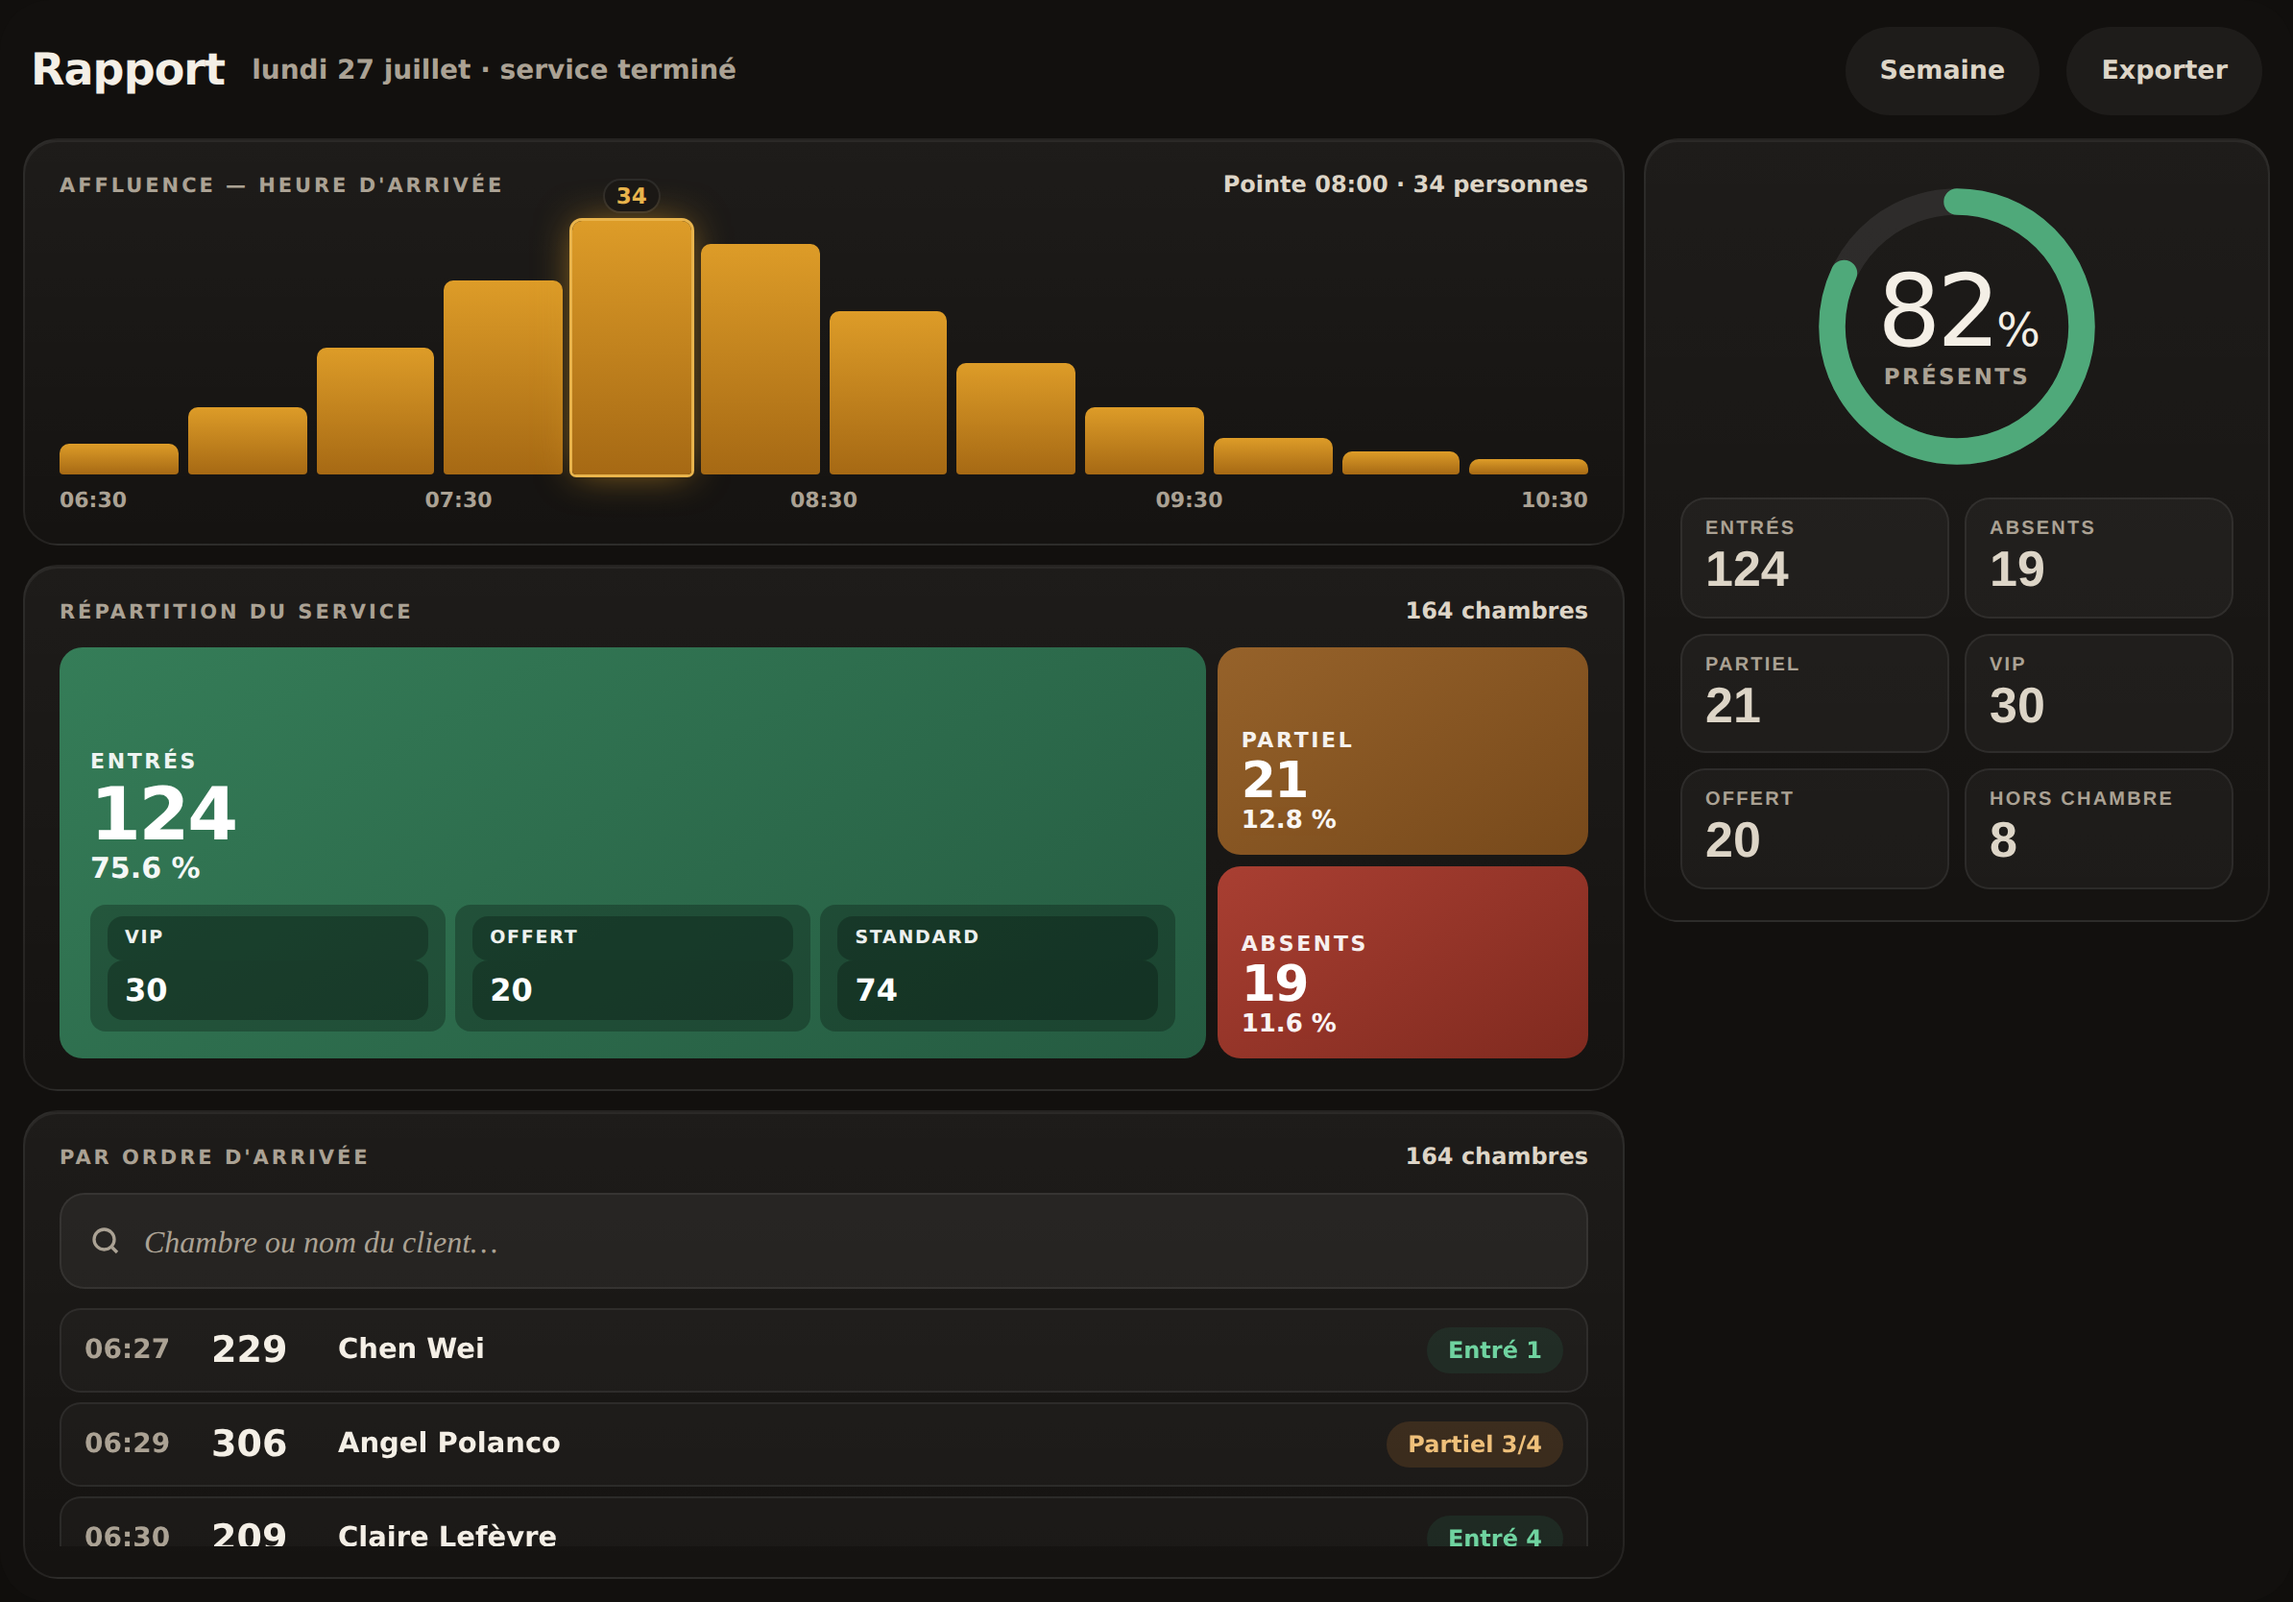
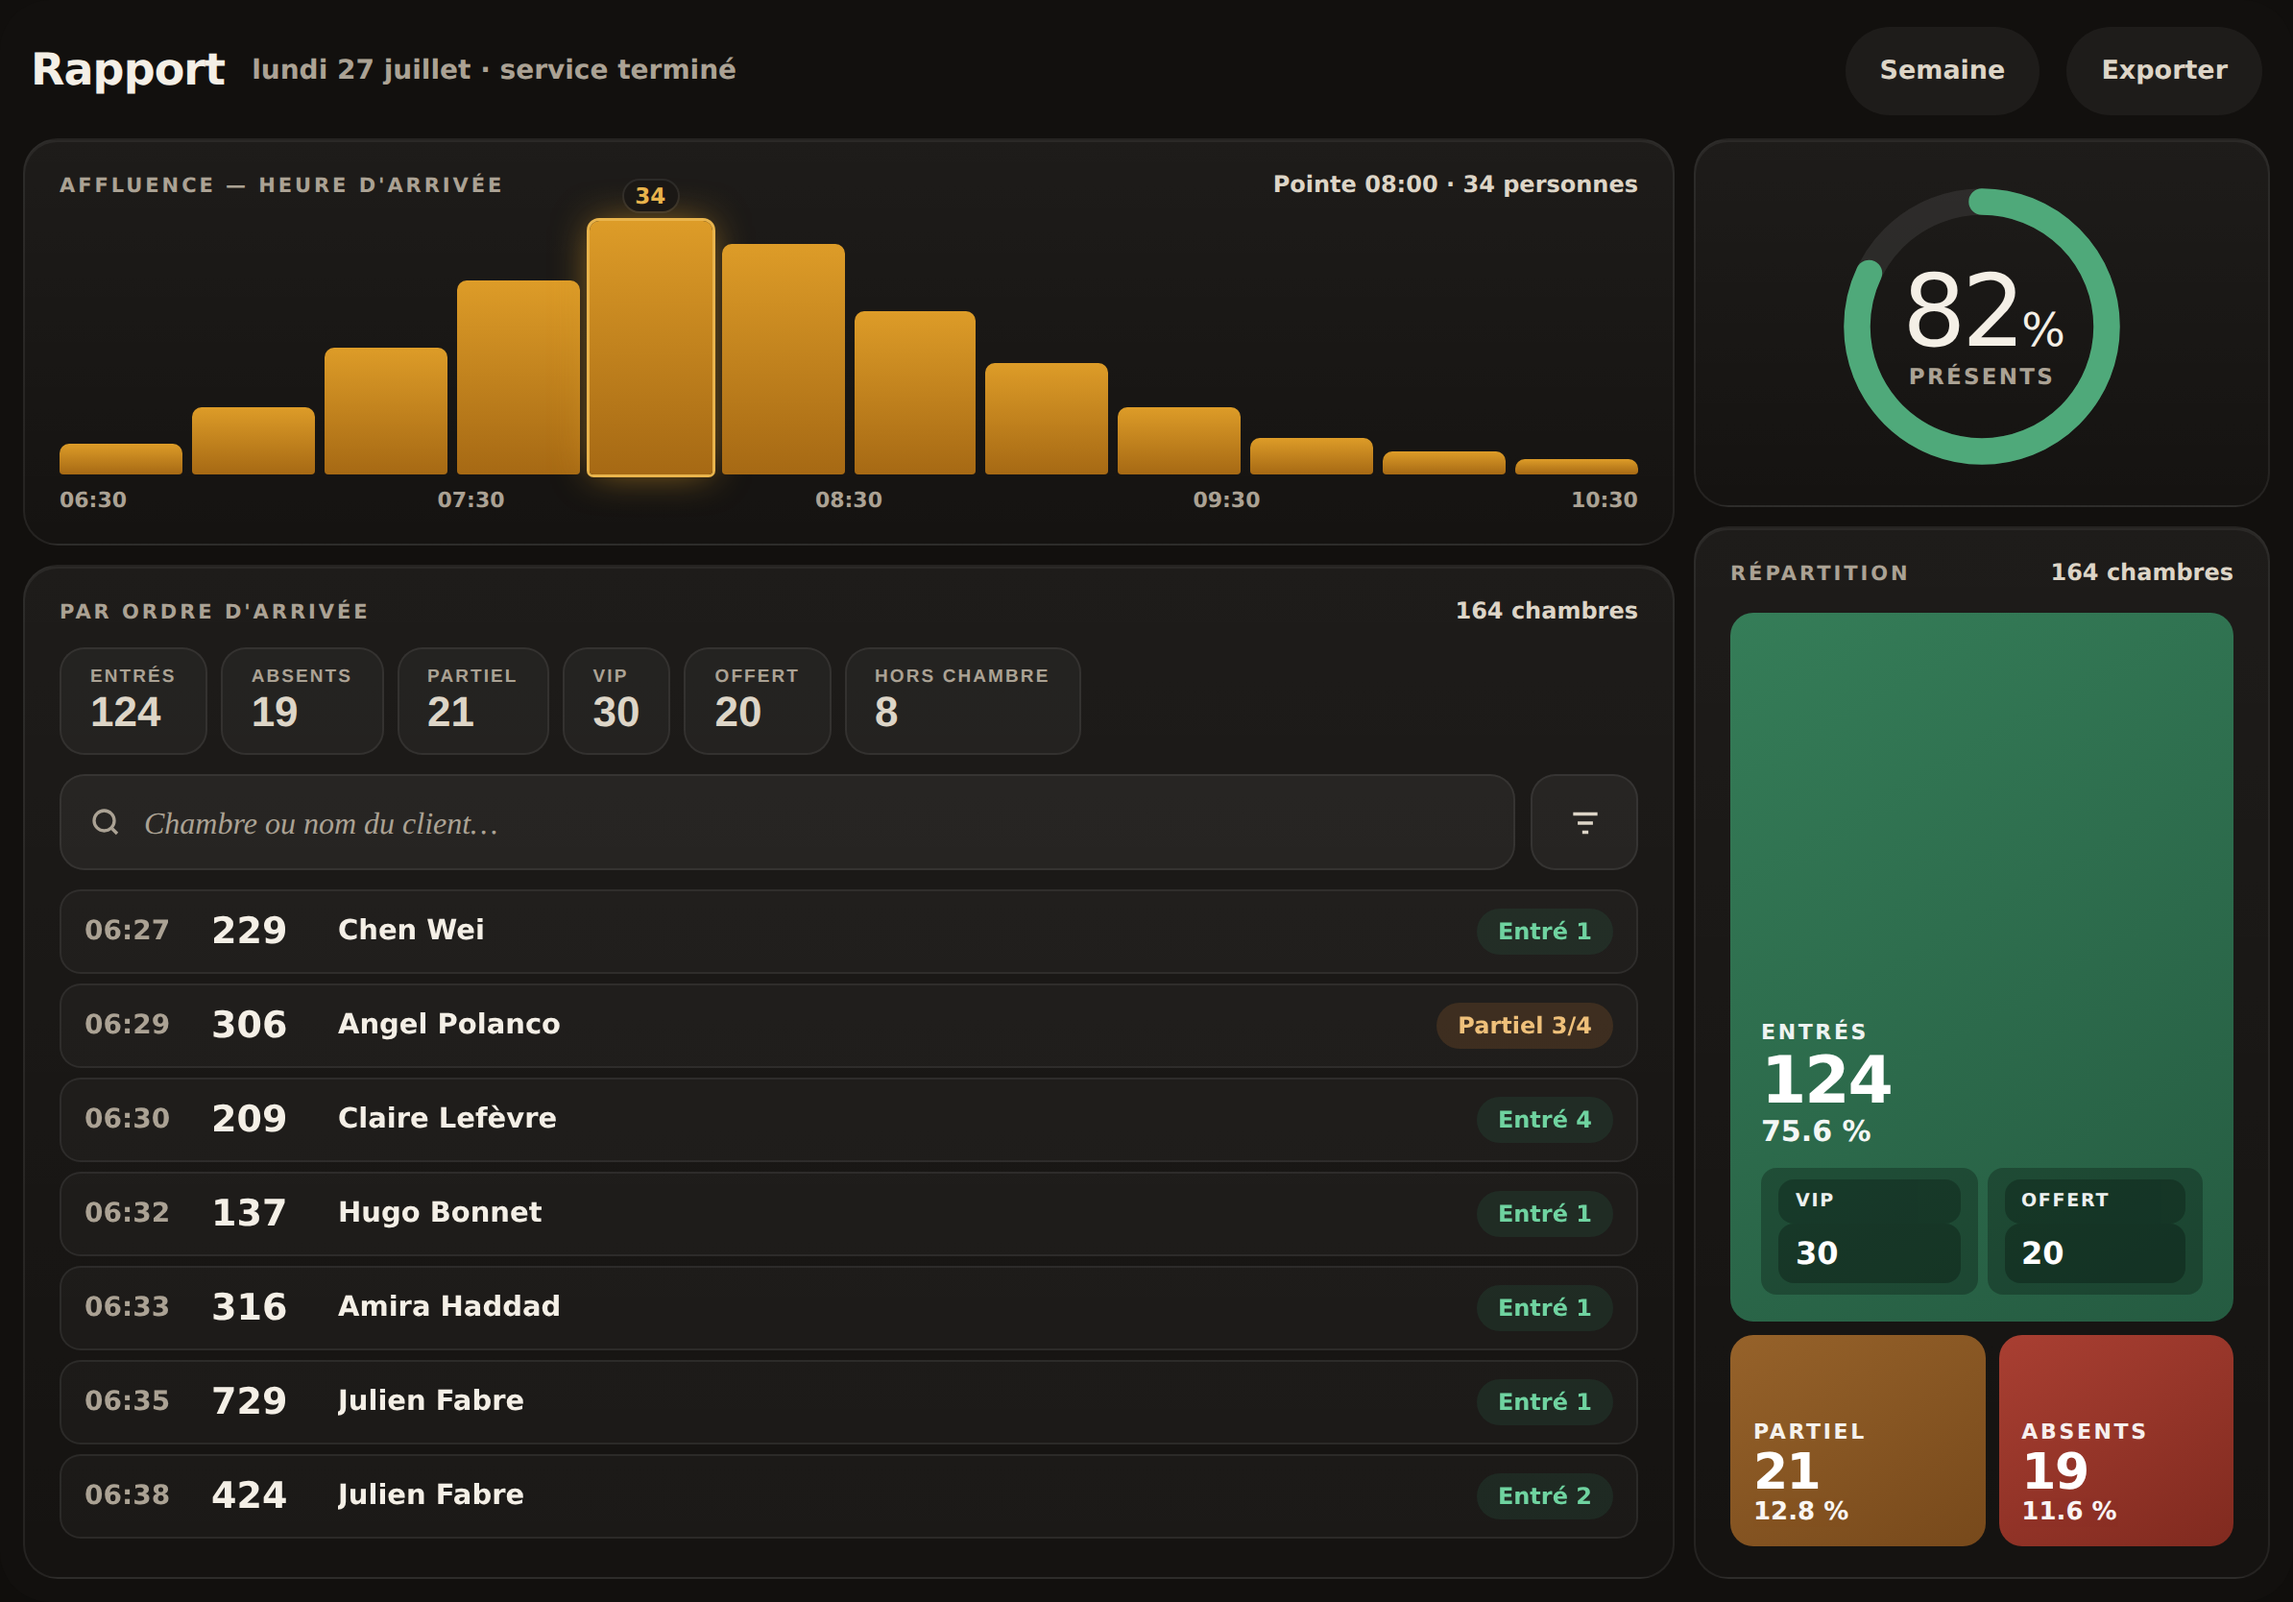
Report v2: metrics as quick filters above the list, treemap under the ring
The metrics now sit directly on top of the data they filter, so reading
them and acting on them is the same gesture. The table keeps its own
sort/filter control beside the search field for anything the chips do not
cover.

The right column is the summary: presence ring, then the treemap beneath
it with room to breathe. Entrés keeps its VIP and Offert breakdown; the
two smaller outcomes share the row below, sized by weight.

Claude-Session: https://claude.ai/code/session_01PvjN1yrwGssKpuvjG4vcfR

diff --git a/mockups/report-v2.html b/mockups/report-v2.html
@@ -46,7 +46,7 @@
 
   .body{flex:1;min-height:0;display:flex;gap:10px}
   .left{flex:1;min-width:0;display:flex;flex-direction:column;gap:10px}
-  .right{width:326px;flex:none;display:flex;flex-direction:column;gap:10px}
+  .right{width:300px;flex:none;display:flex;flex-direction:column;gap:10px}
 
   /* 1 · affluence */
   .peak{height:132px;display:flex;align-items:flex-end;gap:5px;margin-top:12px}
@@ -64,13 +64,13 @@
   /* 2 · treemap — area carries the proportion, which is the whole point: you
      read the split without counting anything. Colour is then only a label, so
      the red/green problem stops being load-bearing. */
-  .tm{display:flex;gap:6px;height:214px;margin-top:12px}
-  .tm .col{display:flex;flex-direction:column;gap:6px}
+  .tm{display:flex;flex-direction:column;gap:7px;flex:1;min-height:0;margin-top:14px}
+  .tm .col{display:flex;gap:7px}
   .blk{position:relative;border-radius:12px;padding:14px 16px;overflow:hidden;cursor:pointer;
     display:flex;flex-direction:column;justify-content:flex-end;color:#fff}
   .blk .k{font-size:11px;letter-spacing:.12em;text-transform:uppercase;font-weight:800;
     opacity:.92}
-  .blk .v{font-size:38px;font-weight:800;line-height:1;letter-spacing:-.03em;
+  .blk .v{font-size:34px;font-weight:800;line-height:1;letter-spacing:-.03em;
     font-variant-numeric:tabular-nums;margin-top:2px}
   .blk .p{font-size:15px;font-weight:800;opacity:.95;font-variant-numeric:tabular-nums}
   .blk.sm{padding:10px 12px}
@@ -121,17 +121,27 @@
   .ringwrap{position:relative;width:150px;height:150px;display:grid;place-items:center}
   .ringwrap svg{position:absolute;inset:0;transform:rotate(-90deg)}
 
-  .tiles{display:grid;grid-template-columns:1fr 1fr;gap:8px;margin-top:12px}
-  .tile{border-radius:13px;padding:10px 12px;cursor:pointer;text-align:left;border:1px solid var(--hair);
-    background:rgba(255,255,255,.035)}
+  /* Quick filters, sitting directly on top of the data they filter. Reading
+     them and acting on them is then the same gesture. */
+  .tiles{display:flex;gap:7px;overflow-x:auto;margin-top:12px;scrollbar-width:none}
+  .tiles::-webkit-scrollbar{display:none}
+  .tile{flex:none;min-height:56px;padding:7px 15px;border-radius:13px;cursor:pointer;
+    text-align:left;border:1px solid var(--hair);background:rgba(255,255,255,.035)}
   body.light .tile{background:#fff;border:1px solid rgba(42,38,32,.09)}
   .tile.on{background:linear-gradient(180deg,rgba(221,156,40,.20),rgba(221,156,40,.05));
-    box-shadow:inset 0 1px 0 rgba(255,222,160,.26)}
-  .tile .k{font-size:10px;letter-spacing:.11em;text-transform:uppercase;font-weight:800;
-    color:var(--muted)}
-  .tile .v{font-size:26px;font-weight:800;line-height:1.1;margin-top:1px;
+    box-shadow:inset 0 1px 0 rgba(255,222,160,.26);border-color:transparent}
+  .tile .k{font-size:9.5px;letter-spacing:.11em;text-transform:uppercase;font-weight:800;
+    color:var(--muted);white-space:nowrap}
+  .tile .v{font-size:22px;font-weight:800;line-height:1.15;
     font-variant-numeric:tabular-nums;color:var(--ink-2)}
-  .tile.on .v{color:var(--gold-ink)}
+  .tile.on .v,.tile.on .k{color:var(--gold-ink)}
+  .fbtn{flex:none;width:56px;min-height:50px;border-radius:13px;border:1px solid var(--hair);
+    background:rgba(255,255,255,.05);color:var(--ink-2);cursor:pointer;display:grid;
+    place-items:center}
+  body.light .fbtn{background:#fff;border:1px solid rgba(42,38,32,.09)}
+  .fbtn svg{width:19px;height:19px}
+  .srow{display:flex;gap:8px;align-items:stretch;margin:10px 0}
+  .srow .search{flex:1;margin:0}
 
   .tools{width:1194px;margin:0 auto 6px;display:flex;gap:8px;font-family:system-ui;font-size:13px}
   .tools button{padding:7px 13px;border-radius:999px;border:1px solid #55504a;
@@ -164,18 +174,18 @@
         <div class="axis"><span>06:30</span><span>07:30</span><span>08:30</span><span>09:30</span><span>10:30</span></div>
       </div>
 
-      <!-- 2 · heat grid -->
-      <div class="pane">
-        <div class="cap"><span>Répartition du service</span><b id="tmlab">164 chambres</b></div>
-        <div class="tm" id="tm"></div>
-      </div>
-
       <!-- 3 · list -->
       <div class="pane listpane">
         <div class="cap"><span>Par ordre d'arrivée</span><b id="cnt">164 chambres</b></div>
-        <div class="search">
-          <svg viewBox="0 0 24 24" fill="none" stroke="currentColor" stroke-width="2.2"><circle cx="11" cy="11" r="7"/><path d="M20 20l-3.5-3.5"/></svg>
-          <input id="q" placeholder="Chambre ou nom du client…">
+        <div class="tiles" id="tiles"></div>
+        <div class="srow">
+          <div class="search">
+            <svg viewBox="0 0 24 24" fill="none" stroke="currentColor" stroke-width="2.2"><circle cx="11" cy="11" r="7"/><path d="M20 20l-3.5-3.5"/></svg>
+            <input id="q" placeholder="Chambre ou nom du client…">
+          </div>
+          <button class="fbtn" title="Trier et filtrer">
+            <svg viewBox="0 0 24 24" fill="none" stroke="currentColor" stroke-width="2.1"><path d="M4 6h16M7 12h10M10 18h4"/></svg>
+          </button>
         </div>
         <div class="rows" id="rows"></div>
       </div>
@@ -197,7 +207,10 @@
             </div>
           </div>
         </div>
-        <div class="tiles" id="tiles"></div>
+      </div>
+      <div class="pane" style="flex:1;min-height:0;display:flex;flex-direction:column">
+        <div class="cap"><span>Répartition</span><b id="tmlab">164</b></div>
+        <div class="tm" id="tm"></div>
       </div>
     </div>
   </div>
@@ -241,16 +254,13 @@ const pc = (n)=> (n/T*100).toFixed(1) + " %";
 // split by their relative weight so the taller one is genuinely the bigger one.
 const rest = N.pa + N.no;
 document.getElementById("tm").innerHTML = `
-  <div class="col" style="flex:${N.in}">
-    <div class="blk b-in" style="flex:1" onclick="setFilter('in')">
-      <div class="k">Entrés</div>
-      <div class="v">${N.in}</div>
-      <div class="p">${pc(N.in)}</div>
-      <div class="sub">
-        <div><div class="k">VIP</div><div class="n">30</div></div>
-        <div><div class="k">Offert</div><div class="n">20</div></div>
-        <div><div class="k">Standard</div><div class="n">${N.in-50}</div></div>
-      </div>
+  <div class="blk b-in" style="flex:${N.in}" onclick="setFilter('in')">
+    <div class="k">Entrés</div>
+    <div class="v">${N.in}</div>
+    <div class="p">${pc(N.in)}</div>
+    <div class="sub">
+      <div><div class="k">VIP</div><div class="n">30</div></div>
+      <div><div class="k">Offert</div><div class="n">20</div></div>
     </div>
   </div>
   <div class="col" style="flex:${rest}">
